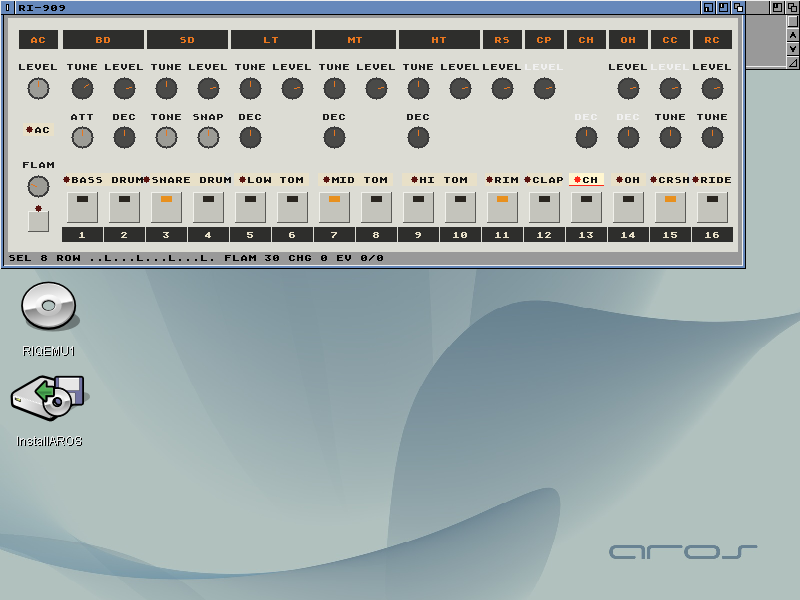
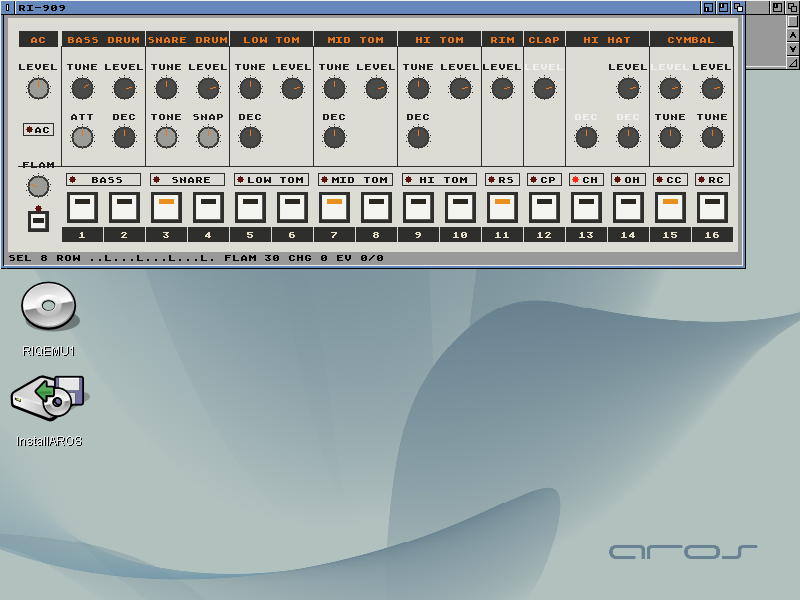
feat: 909 canvas styled after the TR-909 panel [§12.10 G4]
Full-name header bars, group dividers, ticked knobs, outlined
instrument-select boxes and framed off-white keys, per the owner's
TR-909 reference; layout unchanged (p. 151).

Changed region(s): [[0.0312, 0.27, 0.9375, 0.39], [0.0312, 0.06, 0.9062, 0.09]]

diff --git a/gui/widgets/rsection.mcc.c b/gui/widgets/rsection.mcc.c
@@ -65,13 +65,15 @@ static const ULONG RI_RSECT_RGB[C_NCOL] = {
 };
 static LONG s_pens[C_NCOL];
 
-/* 909 group headers (legend bar) and instrument-select box texts */
-static const struct { int x; const char *t; } RI_909_BAR[] = {
-    { 60, "AC" }, { 190, "BD" }, { 358, "SD" }, { 526, "LT" }, { 694, "MT" }, { 862, "HT" },
-    { 988, "RS" }, { 1072, "CP" }, { 1156, "CH" }, { 1240, "OH" }, { 1324, "CC" }, { 1408, "RC" }
+/* 909 header bars (TR-909 panel: dark bar, orange instrument name over its
+ * step group) and instrument-select legend texts (ReBirth p. 151 boxes) */
+static const struct { int x0, x1; const char *t; } RI_909_BAR[] = {
+    { 22, 98, "AC" }, { 108, 272, "BASS DRUM" }, { 276, 440, "SNARE DRUM" }, { 444, 608, "LOW TOM" },
+    { 612, 776, "MID TOM" }, { 780, 944, "HI TOM" }, { 948, 1028, "RIM" }, { 1032, 1112, "CLAP" },
+    { 1116, 1280, "HI HAT" }, { 1284, 1448, "CYMBAL" }
 };
 static const char *const RI_909_OPT[12] = {
-    "AC", "BASS DRUM", "SNARE DRUM", "LOW TOM", "MID TOM", "HI TOM", "RIM", "CLAP", "CH", "OH", "CRSH", "RIDE"
+    "AC", "BASS DRUM", "SNARE DRUM", "LOW TOM", "MID TOM", "HI TOM", "RS", "CP", "CH", "OH", "CC", "RC"
 };
 static const char *const RI_808_OPT[12] = {
     "AC", "BD", "SD", "LT", "MT", "HT", "RS", "CP", "CB", "CY", "OH", "CH"
@@ -233,11 +235,15 @@ static void bg_909(struct RastPort *rp, const struct RIGeoSection *g, int ox, in
 #define PX(q) ri_geo_px((q), z)
     fill_rect(rp, ox, oy, ox + PX(g->w) - 1, oy + PX(g->h) - 1, C_909_PANEL);
     for (i = 0; i < sizeof(RI_909_BAR) / sizeof(RI_909_BAR[0]); i++) {
-        int x = RI_909_BAR[i].x, hw = (i >= 1 && i <= 5) ? 80 : 38;
-        fill_rect(rp, ox + PX(x - hw), oy + PX(24), ox + PX(x + hw), oy + PX(60), C_909_BAR);
-        text_c(rp, ox + PX(x), oy + PX(42), RI_909_BAR[i].t, C_909_ORANGE);
+        int x0 = RI_909_BAR[i].x0, x1 = RI_909_BAR[i].x1;
+        fill_rect(rp, ox + PX(x0), oy + PX(26), ox + PX(x1), oy + PX(56), C_909_BAR);
+        text_c(rp, ox + PX((x0 + x1) / 2), oy + PX(41), RI_909_BAR[i].t, C_909_ORANGE);
     }
-    for (i = 0; i < 16; i++) {                 /* step numbers under the buttons */
+    for (i = 0; i <= 8; i++)                   /* group dividers, as on the TR-909 panel */
+        line(rp, ox + PX(106 + 168 * (int)i), oy + PX(56), ox + PX(106 + 168 * (int)i), oy + PX(296), C_909_BAR);
+    line(rp, ox + PX(1030), oy + PX(56), ox + PX(1030), oy + PX(296), C_909_BAR);
+    line(rp, ox + PX(20), oy + PX(296), ox + PX(1448), oy + PX(296), C_909_BAR);
+    for (i = 0; i < 16; i++) {                 /* step numbers under the keys (p. 151) */
         n[0] = (char)(i >= 9 ? '1' : '0' + (i + 1));
         n[1] = (char)(i >= 9 ? '0' + (i + 1 - 10) : 0);
         n[2] = 0;
@@ -246,6 +252,14 @@ static void bg_909(struct RastPort *rp, const struct RIGeoSection *g, int ox, in
         text_c(rp, ox + PX(148 + 84 * (int)i), oy + PX(432), n, C_CREAM);
     }
 #undef PX
+}
+
+/* TR-909 key: dark frame, off-white cap, lamp window at the top */
+static void key_909(struct RastPort *rp, int x0, int y0, int x1, int y1, int z, ULONG lamp) {
+    int f = ri_geo_px(6, z), lw = (x1 - x0) / 4;
+    fill_rect(rp, x0, y0, x1, y1, C_909_BAR);
+    bevel(rp, x0 + f, y0 + f, x1 - f, y1 - f, C_WHITEKEY);
+    fill_rect(rp, (x0 + x1) / 2 - lw, y0 + f + ri_geo_px(8, z), (x0 + x1) / 2 + lw, y0 + f + ri_geo_px(16, z), lamp);
 }
 
 static const char *legend_909(const char *leg) {
@@ -290,7 +304,7 @@ static void draw_section(Object *obj, struct RSectionData *dd) {
                 ULONG face = d->bind == RI_BIND_NONE ? C_DISABLED
                     : is909 ? C_909_KNOB
                     : !is808 ? C_KNOB : !strcmp(d->legend, "Level") ? C_KNOB_RED : C_KNOB_WHITE;
-                draw_knob(rp, cx, cy, PX(it->w), PX(it->h), face, is909 ? C_909_ORANGE : C_BLACK, !is808 && !is909,
+                draw_knob(rp, cx, cy, PX(it->w), PX(it->h), face, is909 ? C_909_ORANGE : C_BLACK, !is808,
                     (float)ri_knob_pointer_mdeg((int)to_n(d, v)) / 1000.0f);
             }
             break;
@@ -311,10 +325,9 @@ static void draw_section(Object *obj, struct RSectionData *dd) {
                 int st = ri_sui_led(&dd->ui, idx, 0);
                 ULONG lamp = st == 1 ? (ri_sui_value(&dd->ui, RI_S909_SELECT) == 0 ? C_LED_ON : C_LAMP_LOW)
                     : st == 2 ? C_LED_ON : st == 3 ? C_LAMP_FLAM : C_LAMP_OFF;
-                bevel(rp, cx - hw, cy - hh, cx + hw, cy + hh, C_909_STEP);
-                fill_rect(rp, cx - hw / 3, cy - hh + PX(8), cx + hw / 3, cy - hh + PX(18), lamp);
+                key_909(rp, cx - hw, cy - hh, cx + hw, cy + hh, z, lamp);
             } else if (d->kind == RI_CK_SWITCH && is909) {     /* Flam button */
-                bevel(rp, cx - hw, cy - hh, cx + hw, cy + hh, C_909_STEP);
+                key_909(rp, cx - hw, cy - hh, cx + hw, cy + hh, z, v ? C_LED_ON : C_LAMP_OFF);
             } else if (d->kind == RI_CK_SWITCH && is808) {     /* sound switch: slot + lever */
                 fill_rect(rp, cx - hw, cy - hh, cx + hw, cy + hh, C_BLACK);
                 if (v)
@@ -334,15 +347,20 @@ static void draw_section(Object *obj, struct RSectionData *dd) {
             break;
         case RI_GEO_OPTION: {
             BOOL lit = v == it->opt;
+            if (is909) {                                  /* outlined legend box, LED left */
+                const char *t = it->opt < 12 ? RI_909_OPT[it->opt] : "?";
+                if (TextLength(rp, (STRPTR)t, (ULONG)strlen(t)) + PX(40) > 2 * hw)
+                    t = it->opt == 1 ? "BASS" : it->opt == 2 ? "SNARE" : t; /* bar above names the drum */
+                fill_rect(rp, cx - hw, cy - hh, cx + hw, cy + hh, C_909_BAR);
+                fill_rect(rp, cx - hw + 1, cy - hh + 1, cx + hw - 1, cy + hh - 1, C_909_PANEL);
+                fill_circle(rp, cx - hw + PX(12), cy, PX(5), lit ? C_LED_ON : C_LED_OFF);
+                text_c(rp, cx + PX(8), cy, t, C_BLACK);
+                break;
+            }
             fill_rect(rp, cx - hw, cy - hh, cx + hw, cy + hh, lit ? C_CREAM_LIT : C_CREAM);
             if (lit)
                 line(rp, cx - hw, cy + hh, cx + hw, cy + hh, C_LED_ON);
-            if (is909) {
-                const char *t = it->opt < 12 ? RI_909_OPT[it->opt] : "?";
-                int tw = TextLength(rp, (STRPTR)t, (ULONG)strlen(t));
-                fill_circle(rp, cx - tw / 2 - 1, cy, PX(5), lit ? C_LED_ON : C_LED_OFF);
-                text_c(rp, cx + PX(8), cy, t, C_BLACK);
-            } else {
+            {
                 text_c(rp, cx, cy, it->opt < 12 ? RI_808_OPT[it->opt] : "?", C_BLACK);
             }
             break;

diff --git a/docs/evidence/gui/section-canvas-proof.md b/docs/evidence/gui/section-canvas-proof.md
@@ -12,7 +12,7 @@
 - **Event plumbing up to IDCMP.** Handler installed in `MUIM_Setup` (lifecycle counters Setup 1 / Show 1); with `IDCMP_INTUITICKS` temporarily added it received ticks (46 → 482), so the handler path is live.
 
 - **808 section (p. 148 layout).** `RISECT 808 demo`: BD four-on-the-floor, CH off-beats, AC on steps 5 and 13, LT→LC switch, BD Level/Tone moved, CH left selected. Capture `img/2026-09-25-ri808-demo.png` shows twelve red LEVEL knobs, white parameter knobs in their instrument columns, the LT switch lever down (LC), CH lit in both the legend row and the selector ring, the selector pointer on CH, and the CH row lamps lit on steps 3, 7, 11, 15 over TR-808 colour groups (1–4 red, 5–8 orange, 9–12 yellow, 13–16 white). Readout `SEL 11 ROW ..X...X...X...X. BD 1 LC 1`.
-- **909 section (p. 151 layout).** `RISECT 909 demo`: BD on 1, 5, 9, 13 with 5 and 13 clicked again to high (off→low→high cycle, p. 30), SD flam on 5 and 13 via the Flam button, CH selected with low hits on the off-beats, BD Tune 90, Flam 30. Capture `img/2026-09-25-ri909-demo.png` shows the grey 909 panel with dark group bars and orange legends (AC BD SD LT MT HT RS CP CH OH CC RC), dark knobs with orange pointers grouped over their instruments' steps, the instrument legends under the knobs with CH lit, the Flam knob and button, and the CH row lamps (low = orange) on steps 3, 7, 11, 15 over numbered step keys. Readout `SEL 8 ROW ..L...L...L...L. FLAM 30`. Controls without an engine binding (CP Level, CH/OH Decay, CC Level) draw disabled, as on the other sections.
+- **909 section (p. 151 layout).** `RISECT 909 demo`: BD on 1, 5, 9, 13 with 5 and 13 clicked again to high (off→low→high cycle, p. 30), SD flam on 5 and 13 via the Flam button, CH selected with low hits on the off-beats, BD Tune 90, Flam 30. Capture `img/2026-09-25-ri909-demo.png` shows the p. 151 layout styled after the TR-909 hardware panel (owner reference image, 2026-09-25): light-grey panel, dark header bars with orange instrument names (AC, BASS DRUM, SNARE DRUM, LOW TOM, MID TOM, HI TOM, RIM, CLAP, HI HAT, CYMBAL), group divider lines, dark ticked knobs with orange pointers over their instruments' steps, outlined instrument-select boxes with LEDs (CH lit), the Flam knob and button, and off-white keys in dark frames whose lamps show the CH row (low = orange) on steps 3, 7, 11, 15. Readout `SEL 8 ROW ..L...L...L...L. FLAM 30`. Controls without an engine binding (CP Level, CH/OH Decay, CC Level) draw disabled, as on the other sections.
 - **303 regression through the generic canvas.** `RISECT 303 demo` reproduces the RSec303 capture (EDIT STEP 04, Pitch Mode lit, SQR).
 
 ## Not proven here (and why)
